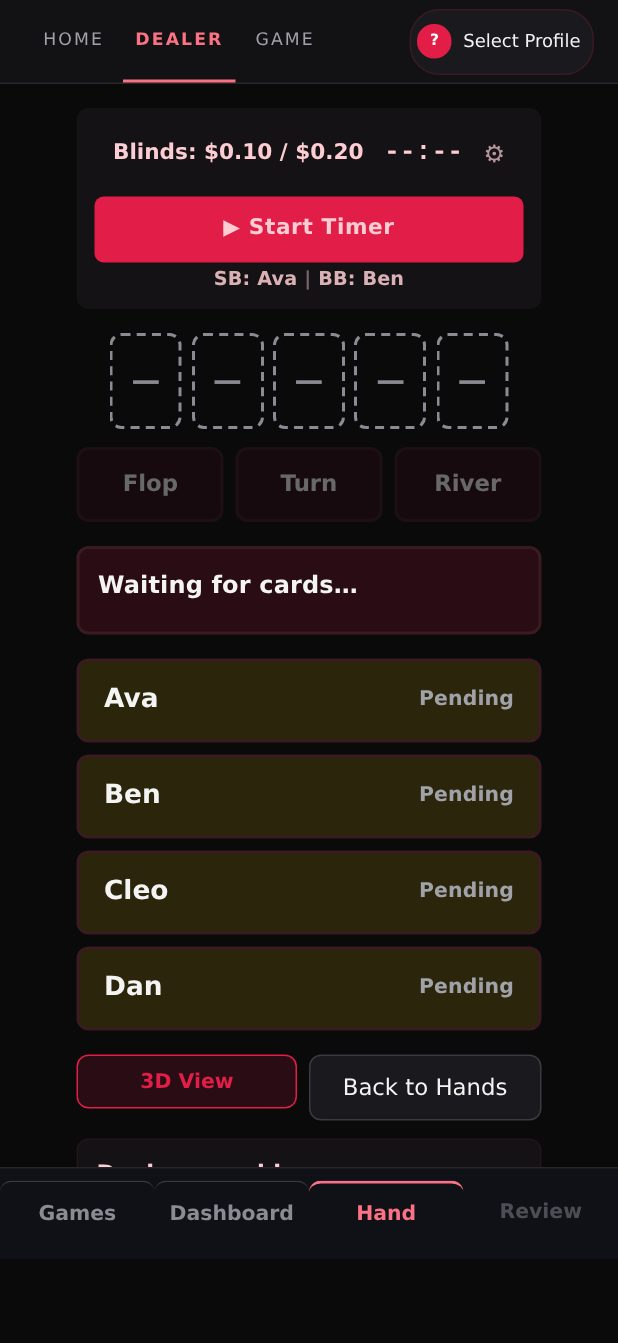
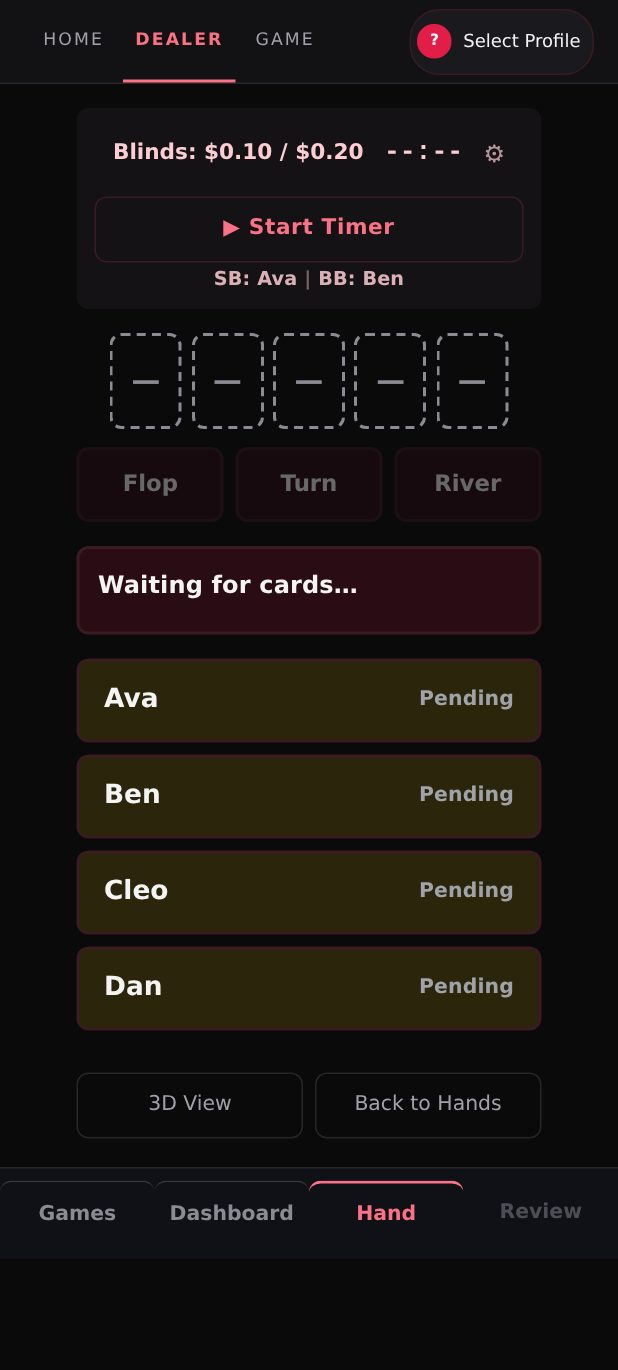
feat(ux): docked primary action for dealer, one-screen player table
Dealer: a single docked button always shows the next step (Deal the
flop/turn/river, Finish Hand); 3D View and Back sit beneath it as quiet
secondary actions; the blind timer start is outlined.
Player: compact header, action buttons and chip picker pinned as a bottom
sheet, Table View and Leave Game as one quiet row.

diff --git a/frontend/src/player/PlayerApp.tsx b/frontend/src/player/PlayerApp.tsx
@@ -319,18 +319,18 @@ export function PlayerApp() {
     const stackColor = runningTotal === null ? theme.muted : runningTotal > 0 ? '#4ade80' : runningTotal < 0 ? '#f87171' : theme.text;
 
     return (
-      <div style={styles.container}>
-        <p style={{ color: theme.muted, margin: '0 0 0.25rem', fontSize: '0.85rem' }}>Game #{gameId}</p>
-        <h2 style={styles.playerName}>{playerName}</h2>
-        {runningTotal !== null && (
-          <p
-            data-testid="player-stack"
-            style={{ color: stackColor, fontWeight: 600, fontSize: '1.1rem', margin: '0 0 0.5rem' }}
-          >
-            Stack: {runningTotal < 0 ? `-$${Math.abs(runningTotal).toFixed(2)}` : `$${runningTotal.toFixed(2)}`}
-          </p>
-        )}
-        {handNumber && <p style={{ color: theme.faint, margin: '0 0 0.75rem', fontSize: '0.85rem' }}>Hand #{handNumber}</p>}
+      <div style={{ ...styles.container, paddingBottom: playerStatus === 'joined' && isMyTurn ? '13rem' : styles.container.padding }}>
+        <p style={styles.eyebrow}>
+          Game #{gameId}{handNumber ? ` · Hand #${handNumber}` : ''}
+        </p>
+        <div style={styles.headerRow}>
+          <h2 style={styles.playerName}>{playerName}</h2>
+          {runningTotal !== null && (
+            <p data-testid="player-stack" style={{ ...styles.stack, color: stackColor }}>
+              Stack: {runningTotal < 0 ? `-$${Math.abs(runningTotal).toFixed(2)}` : `$${runningTotal.toFixed(2)}`}
+            </p>
+          )}
+        </div>
 
         {captureStep === 'camera' && gameId && (
           <CameraCapture
@@ -367,6 +367,7 @@ export function PlayerApp() {
               onCapture={handleStartCapture}
             />
             {playerStatus === 'joined' && handNumber && isMyTurn && (
+              <div data-testid="action-dock" style={styles.dock}>
               <PlayerActionButtons
                 expectedActionIndex={actionIndex}
                 gameId={gameId!}
@@ -384,6 +385,7 @@ export function PlayerApp() {
                   triggerPlayerPoll();
                 }}
               />
+              </div>
             )}
             {playerStatus === 'joined' && handNumber && !isMyTurn && (
               <p data-testid="waiting-turn" style={{ color: theme.warningText }}>Waiting for your turn…</p>
@@ -405,17 +407,16 @@ export function PlayerApp() {
           </>
         )}
 
-        <button
-          data-testid="table-view-btn"
-          style={styles.tableViewBtn}
-          onClick={() => {
-            window.location.hash = `#/player/table?game=${gameId}&player=${encodeURIComponent(playerName)}`;
-          }}
-        >
-          Table View
-        </button>
-
-        <div style={{ display: 'flex', gap: '0.5rem', marginTop: '0.5rem' }}>
+        <div style={styles.secondaryRow}>
+          <button
+            data-testid="table-view-btn"
+            style={styles.tableViewBtn}
+            onClick={() => {
+              window.location.hash = `#/player/table?game=${gameId}&player=${encodeURIComponent(playerName)}`;
+            }}
+          >
+            Table View
+          </button>
           <button
             data-testid="leave-game-btn"
             style={styles.changeBtn}
@@ -474,9 +475,10 @@ const styles: Record<string, CSSProperties> = {
     marginBottom: '0.75rem',
   },
   playerName: {
+    fontFamily: 'var(--heading)',
     fontSize: '1.6rem',
-    fontWeight: 600,
-    margin: '0 0 0.25rem',
+    fontWeight: 500,
+    margin: 0,
     color: theme.text,
   },
   error: {
@@ -543,16 +545,54 @@ const styles: Record<string, CSSProperties> = {
     cursor: 'pointer',
   },
   tableViewBtn: {
-    marginTop: '1rem',
-    padding: '0.75rem 1.5rem',
-    minHeight: '48px',
-    width: '100%',
-    fontSize: '1rem',
+    flex: 1,
+    padding: '0.6rem 1rem',
+    minHeight: '44px',
+    fontSize: '0.9rem',
     fontWeight: 600,
-    border: `2px solid ${theme.accent}`,
+    border: `1px solid ${theme.accentBorder}`,
     borderRadius: '8px',
-    background: theme.accentTint,
+    background: 'transparent',
     color: theme.accentText,
     cursor: 'pointer',
+  },
+  secondaryRow: {
+    display: 'flex',
+    gap: '0.5rem',
+    marginTop: '1.5rem',
+  },
+  eyebrow: {
+    color: theme.muted,
+    margin: '0 0 0.25rem',
+    fontSize: '0.75rem',
+    letterSpacing: '0.12em',
+    textTransform: 'uppercase',
+  },
+  headerRow: {
+    display: 'flex',
+    alignItems: 'baseline',
+    justifyContent: 'space-between',
+    gap: '0.75rem',
+    marginBottom: '1rem',
+    textAlign: 'left',
+  },
+  stack: {
+    fontWeight: 600,
+    fontSize: '1rem',
+    margin: 0,
+    fontVariantNumeric: 'tabular-nums',
+  },
+  dock: {
+    position: 'fixed',
+    left: 0,
+    right: 0,
+    bottom: 0,
+    zIndex: 50,
+    padding: '0.75rem 1rem calc(0.75rem + env(safe-area-inset-bottom))',
+    background: theme.surface,
+    borderTop: `1px solid ${theme.border}`,
+    boxShadow: '0 -12px 32px rgba(0, 0, 0, 0.5)',
+    maxHeight: '75vh',
+    overflowY: 'auto',
   },
 };

diff --git a/frontend/src/dealer/ActiveHandDashboard.tsx b/frontend/src/dealer/ActiveHandDashboard.tsx
@@ -119,10 +119,10 @@ export function describeBettingClosed(
       : 'Betting complete — finish the hand';
   }
   const next = !community.flopRecorded ? 'flop' : !community.turnRecorded ? 'turn' : 'river';
-  if (everyoneAllIn) return `🃏 All players are all-in — deal the ${next}`;
+  if (everyoneAllIn) return `All players are all-in — deal the ${next}`;
   if (runningOut) {
     const count = allIn.length;
-    return `🃏 ${count === 1 ? '1 player is' : `${count} players are`} all-in, no more betting — deal the ${next}`;
+    return `${count === 1 ? '1 player is' : `${count} players are`} all-in, no more betting — deal the ${next}`;
   }
   return `Betting complete — deal the ${next}`;
 }
@@ -243,6 +243,16 @@ export function ActiveHandDashboard({
       winning_hand_description: matched?.winning_hand_description ?? null,
     };
   });
+
+  // The one thing the dealer needs to do next, shown as a single docked button.
+  const nextStreet: 'flop' | 'turn' | 'river' | null = !community.flopRecorded
+    ? 'flop'
+    : !community.turnRecorded
+      ? 'turn'
+      : !community.riverRecorded
+        ? 'river'
+        : null;
+  const streetReady = streetComplete !== false && handPhase !== 'awaiting_cards';
 
   return (
     <div style={isWide ? styles.containerWide : styles.container}>
@@ -453,34 +463,41 @@ export function ActiveHandDashboard({
             })}
           </div>
 
-          {canFinish && (
-            <button
-              style={styles.finishButton}
-              onClick={onFinishHand}
-            >
-              Finish Hand
-            </button>
-          )}
         </div>
       </div>
 
-      <div style={{ display: 'flex', gap: '0.5rem', marginTop: '0.75rem' }}>
-        <button
-          data-testid="view-toggle-btn"
-          onClick={() => {
-            setStreetScrub3D(liveStreet);
-            setViewMode('3d');
-            fetchHands(gameId).then(setHands3D).catch(() => {});
-          }}
-          style={{ ...styles.viewToggleButton, flex: 1 }}
-        >
-          3D View
-        </button>
-        {onBack && (
-          <button data-testid="back-btn" onClick={onBack} style={{ ...styles.backButton, flex: 1, marginBottom: 0 }}>
-            Back to Hands
+      <div data-testid="action-dock" style={styles.dock}>
+        {canFinish ? (
+          <button data-testid="primary-action-btn" style={styles.primaryAction} onClick={onFinishHand}>
+            Finish Hand
           </button>
-        )}
+        ) : nextStreet && streetReady ? (
+          <button
+            data-testid="primary-action-btn"
+            style={styles.primaryAction}
+            onClick={() => (onStreetCapture ?? onTileSelect)(nextStreet)}
+          >
+            Deal the {nextStreet}
+          </button>
+        ) : null}
+        <div style={styles.dockSecondary}>
+          <button
+            data-testid="view-toggle-btn"
+            onClick={() => {
+              setStreetScrub3D(liveStreet);
+              setViewMode('3d');
+              fetchHands(gameId).then(setHands3D).catch(() => {});
+            }}
+            style={styles.dockGhost}
+          >
+            3D View
+          </button>
+          {onBack && (
+            <button data-testid="back-btn" onClick={onBack} style={styles.dockGhost}>
+              Back to Hands
+            </button>
+          )}
+        </div>
       </div>
       {onOverride && gameId != null && handNumber != null && (
         <DealerOverrides
@@ -512,6 +529,43 @@ export function ActiveHandDashboard({
 }
 
 const styles: Record<string, React.CSSProperties> = {
+  dock: {
+    position: 'sticky',
+    bottom: '72px',
+    zIndex: 20,
+    marginTop: '0.75rem',
+    padding: '0.75rem 0 0.5rem',
+    background: `linear-gradient(to top, ${theme.bg} 70%, rgba(10, 10, 11, 0))`,
+  },
+  primaryAction: {
+    width: '100%',
+    minHeight: '52px',
+    padding: '0.9rem 1rem',
+    fontSize: '1rem',
+    fontWeight: 600,
+    letterSpacing: '0.04em',
+    border: 'none',
+    borderRadius: '8px',
+    background: theme.accent,
+    color: theme.onAccent,
+    cursor: 'pointer',
+    marginBottom: '0.5rem',
+  },
+  dockSecondary: {
+    display: 'flex',
+    gap: '0.5rem',
+  },
+  dockGhost: {
+    flex: 1,
+    minHeight: '44px',
+    padding: '0.5rem 0.75rem',
+    fontSize: '0.85rem',
+    border: `1px solid ${theme.border}`,
+    borderRadius: '8px',
+    background: 'transparent',
+    color: theme.muted,
+    cursor: 'pointer',
+  },
   container: {
     maxWidth: '480px',
     margin: '0 auto',

diff --git a/frontend/src/dealer/BlindTimer.tsx b/frontend/src/dealer/BlindTimer.tsx
@@ -306,10 +306,11 @@ const styles: Record<string, React.CSSProperties> = {
   startBtn: {
     width: '100%',
     padding: '0.5rem',
-    background: theme.accent,
-    color: theme.accentSoft,
-    border: 'none',
-    borderRadius: '6px',
+    minHeight: '44px',
+    background: 'transparent',
+    color: theme.accentText,
+    border: `1px solid ${theme.accentBorder}`,
+    borderRadius: '8px',
     cursor: 'pointer',
     fontSize: '0.9rem',
     fontWeight: 600,
